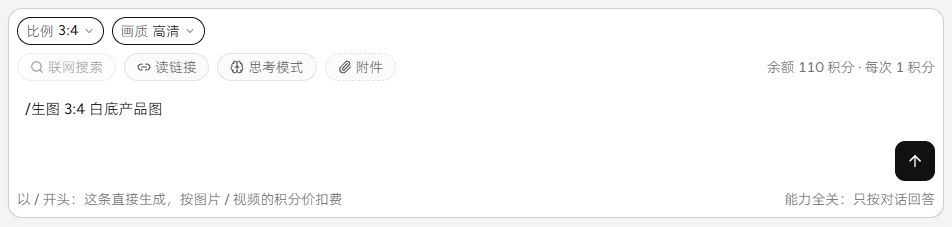
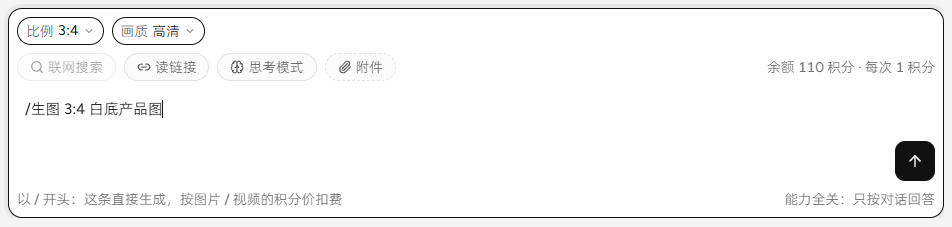
r342a: 选完生成设置把焦点还给输入框（复核发现的「点完胶囊按 Enter 发不出去」）
点下拉里的一档之后，那颗按钮随菜单一起卸载，焦点落到 body —— 直接按 Enter 什么也发不出去。
GenSelect 加 onPicked，选完 focusInput() 把焦点还给输入框；取证脚本里「脚本自己替页面聚焦」
那句删掉（留着正好盖住这个 bug），删掉后重跑 8/8 通过、exit 0。

已发生产：标签 20261127-1445-r342focus，入口 index-BCWXbBud.js 200、上一版 404、版本仍 0.9.314。
门禁：tsc -b 干净、oxlint 0 error / 31 warning、build 通过、全量 2232/2232。

diff --git a/src/components/QuickChat.tsx b/src/components/QuickChat.tsx
@@ -168,6 +168,7 @@ function GenSelect({
   value,
   options,
   onChange,
+  onPicked,
   disabled,
   title,
 }: {
@@ -175,6 +176,9 @@ function GenSelect({
   value: string
   options: GenChoice[]
   onChange: (value: string) => void
+  // 选完一档之后要做什么（r342 复核发现）：那颗下拉按钮随菜单一起卸载，焦点会落到 body，
+  // 用户点完「3:4」直接按 Enter 就什么也发不出去。这里把焦点还给输入框。
+  onPicked?: () => void
   disabled?: boolean
   title?: string
 }) {
@@ -227,6 +231,7 @@ function GenSelect({
               onClick={() => {
                 onChange(option.value)
                 setOpen(false)
+                onPicked?.()
               }}
             >
               {option.label}
@@ -305,6 +310,10 @@ export default function QuickChat({ onToast }: { onToast?: ToastFn }) {
   const fileRef = useRef<HTMLInputElement | null>(null)
   const bottomRef = useRef<HTMLDivElement | null>(null)
   const inputRef = useRef<HTMLTextAreaElement | null>(null)
+  // 生成设置选完一档就把焦点还给输入框（r342 复核）：不还的话 Enter 交给 body，一条都发不出去
+  const focusInput = useCallback(() => {
+    inputRef.current?.focus()
+  }, [])
   const abortRef = useRef<AbortController | null>(null)
   // 只有「本来就在底部」才跟着滚：长回答往上翻着看的时候，每来一段就把人拽回底部很难用
   const stickRef = useRef(true)
@@ -838,6 +847,7 @@ export default function QuickChat({ onToast }: { onToast?: ToastFn }) {
                   value={ratioValue}
                   options={genRatioOptions}
                   onChange={setMediaRatio}
+                  onPicked={focusInput}
                   disabled={sending}
                   title="这次的比例。选「跟随提示词」就由服务端从你这句里认，认不出按各自默认档"
                 />
@@ -848,6 +858,7 @@ export default function QuickChat({ onToast }: { onToast?: ToastFn }) {
                       value={durationValue}
                       options={GEN_DURATIONS}
                       onChange={setMediaDuration}
+                      onPicked={focusInput}
                       disabled={sending}
                       title="这次的秒数。选「跟随提示词」就由服务端从你这句里认"
                     />
@@ -856,6 +867,7 @@ export default function QuickChat({ onToast }: { onToast?: ToastFn }) {
                       value={resolutionValue}
                       options={GEN_RESOLUTIONS}
                       onChange={setMediaResolution}
+                      onPicked={focusInput}
                       disabled={sending}
                       title="这次的清晰度。选「跟随提示词」就由服务端从你这句里认，认不出用 720p"
                     />
@@ -866,6 +878,7 @@ export default function QuickChat({ onToast }: { onToast?: ToastFn }) {
                     value={qualityValue}
                     options={GEN_QUALITIES}
                     onChange={setMediaQuality}
+                    onPicked={focusInput}
                     disabled={sending}
                     title="这次出图的画质。默认跟上上游自己的默认档；选了就按这一档提交，上游不接受会失败并全额退回"
                   />
